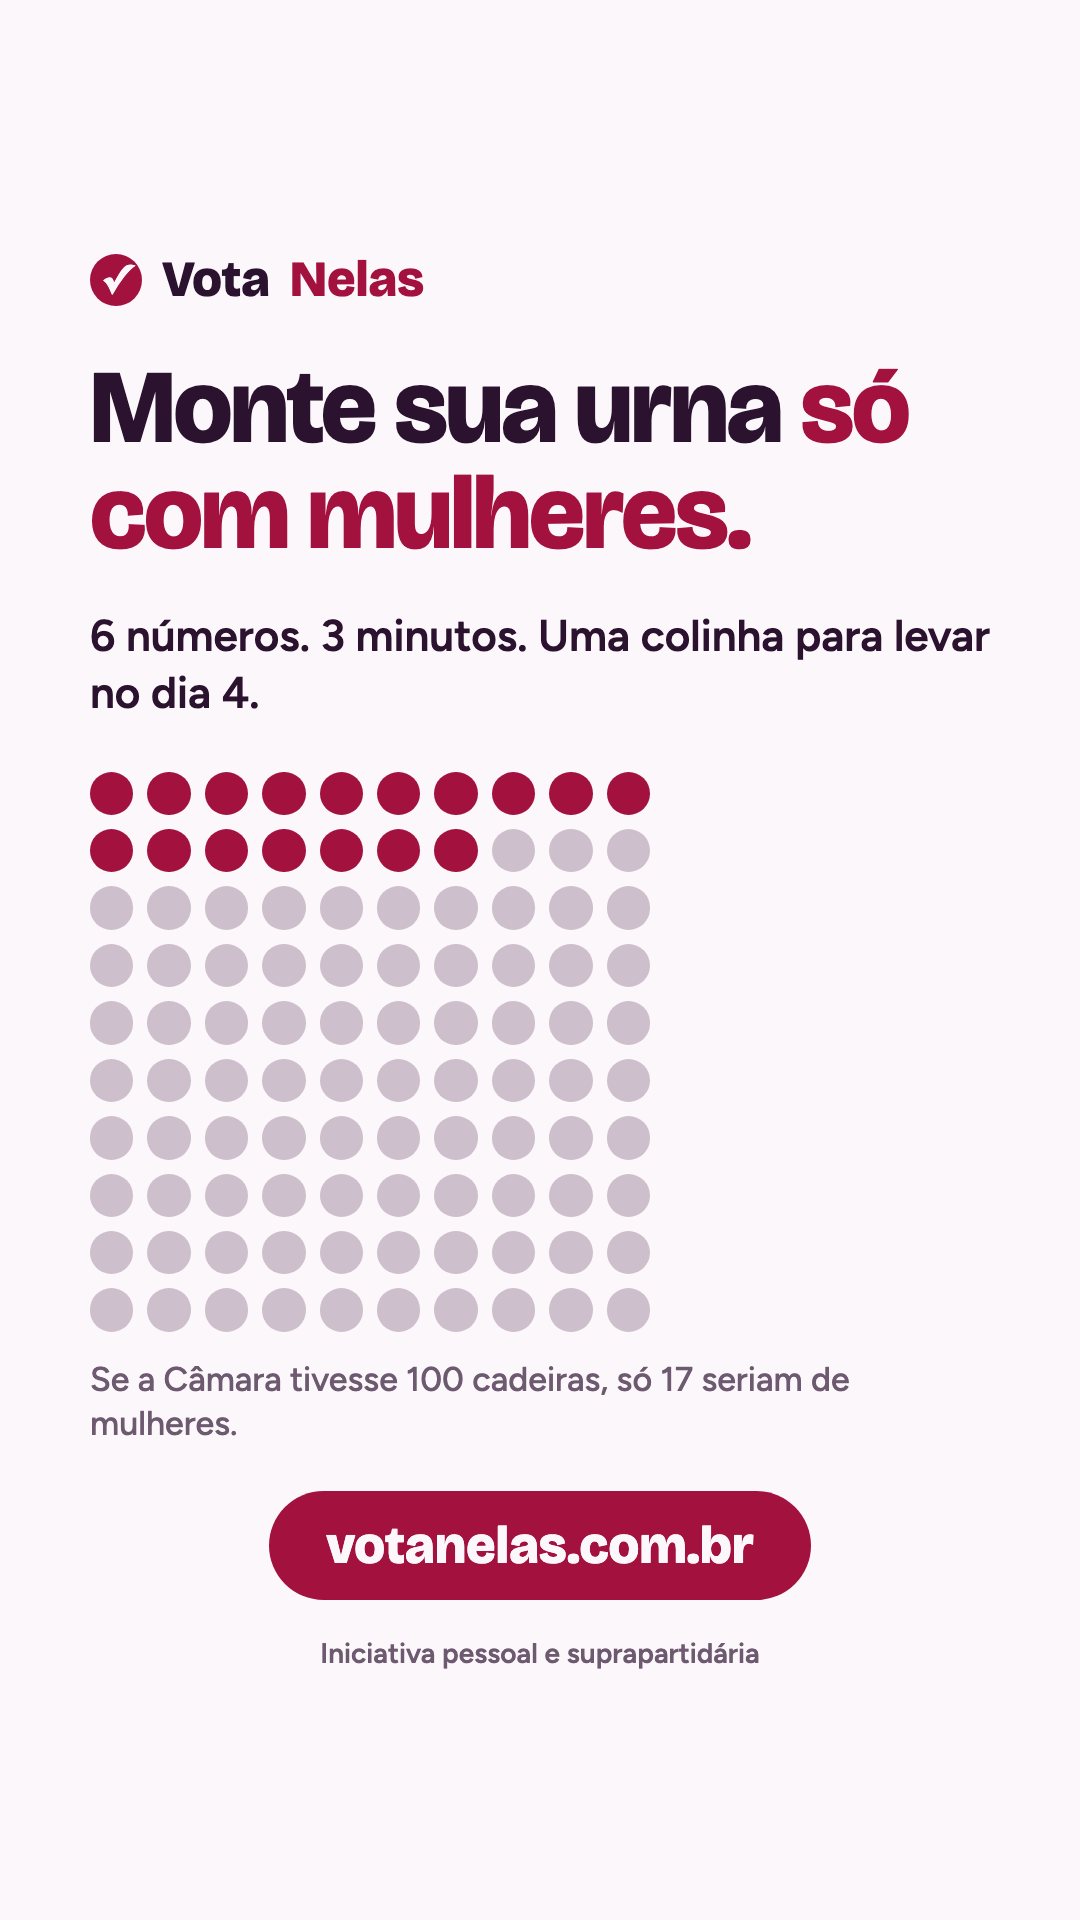
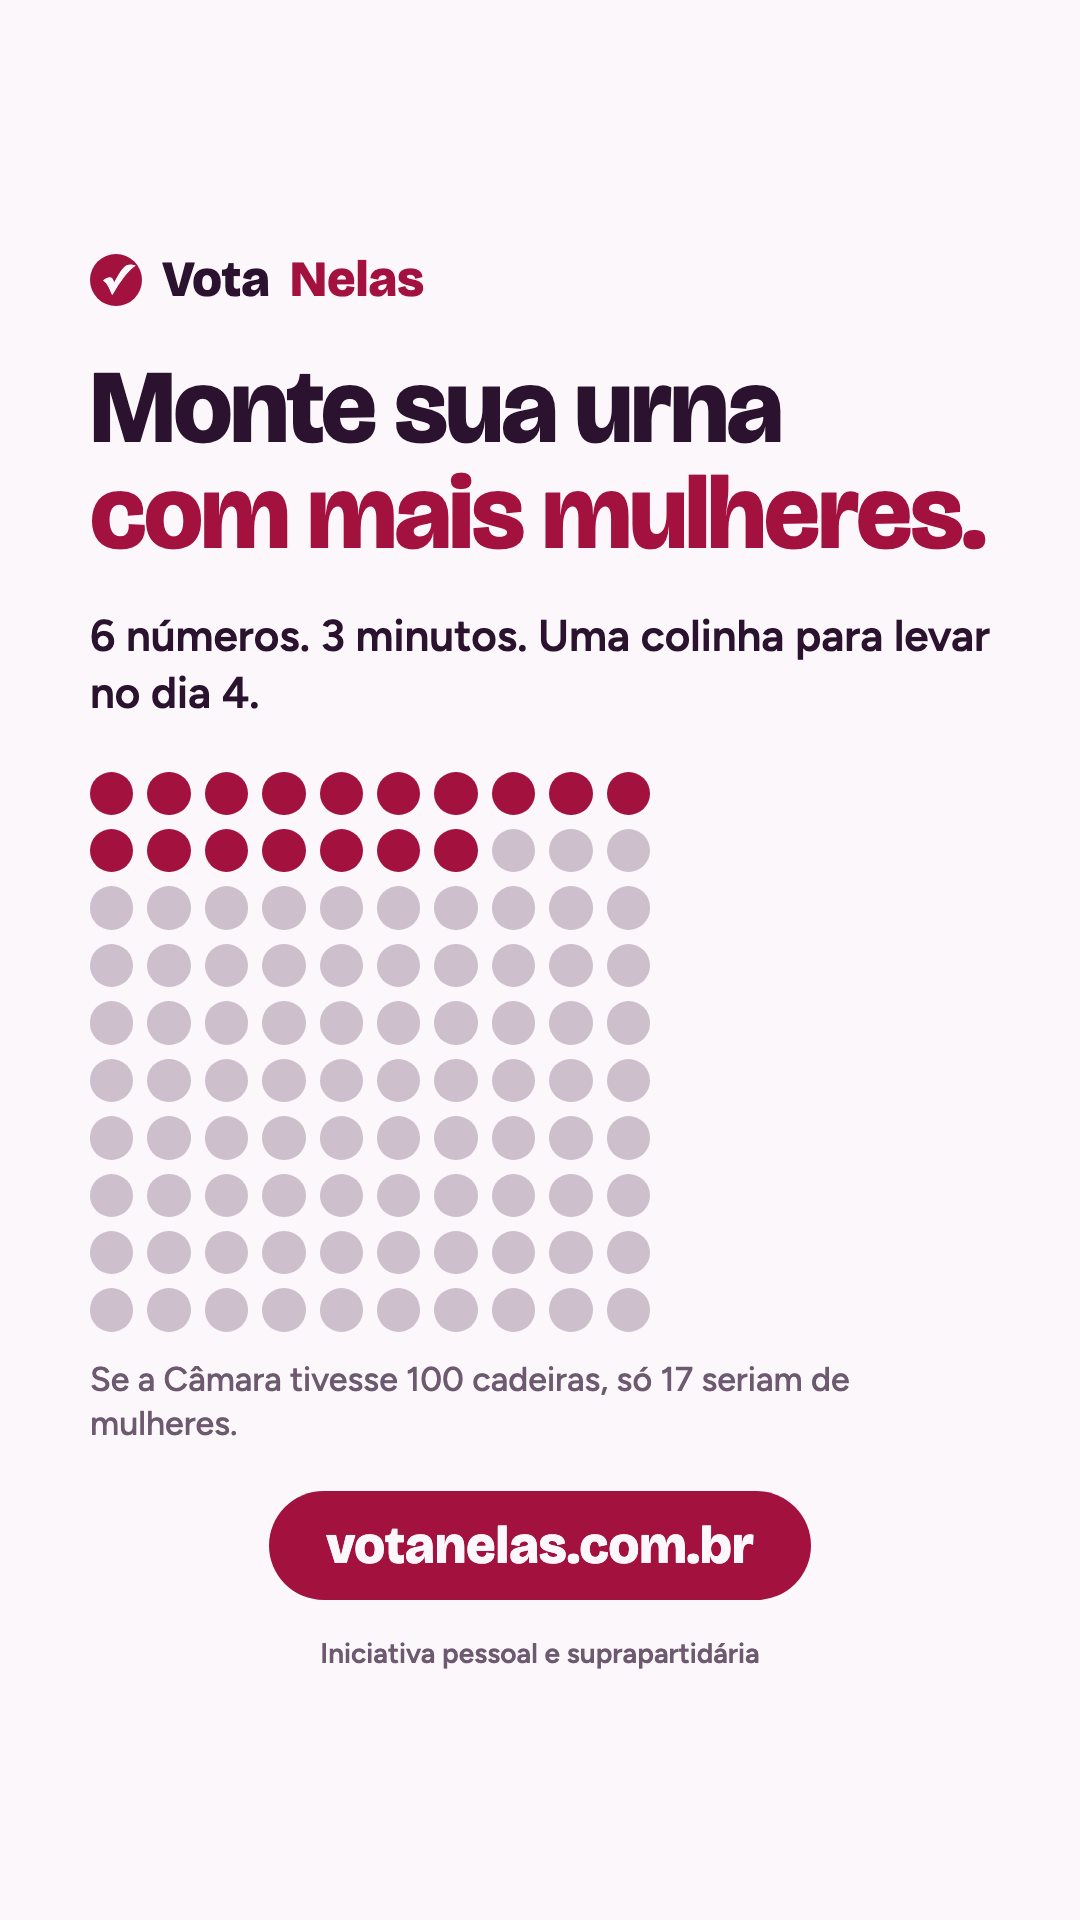
Ajusta as artes e os textos de divulgação para "com mais mulheres"
As artes e os textos prontos deixam de pedir a urna inteira de mulheres:
o carrossel pergunta "E se quase todos forem de mulheres?", o passo 2
explica que dá para pular o cargo sem uma candidata que te represente, e
stories, cards do X e mensagens falam em montar a urna com mais mulheres.

Changed region(s): [[0.3667, 0.1875, 0.9167, 0.3125]]

diff --git a/docs/marketing/artes/gerar.py b/docs/marketing/artes/gerar.py
@@ -94,14 +94,14 @@ ARTES = {
     "feed_02_carrossel-1": (FEED, "", f"""{LOGO}
       <div class="meio">
         <h1 style="font-size:104px">Na urna você digita <span class="v">6 números.</span></h1>
-        <h1 style="font-size:104px;margin-top:30px">E se todos forem de <span class="v">mulheres?</span></h1>
+        <h1 style="font-size:104px;margin-top:30px">E se quase todos forem de <span class="v">mulheres?</span></h1>
         <p class="m" style="font-size:36px;margin-top:50px">Arraste para ver como montar sua urna em 3 minutos →</p>
       </div>{RODAPE}"""),
 
     "feed_02_carrossel-2": (FEED, "", f"""{LOGO}
       <div class="meio" style="gap:58px">
         <div class="passo"><div class="n">1</div><div><h1 style="font-size:64px">Escolha seu estado</h1><p class="m" style="font-size:32px;margin-top:10px">No mapa ou na lista.</p></div></div>
-        <div class="passo"><div class="n">2</div><div><h1 style="font-size:64px">Uma mulher para cada cargo</h1><p class="m" style="font-size:32px;margin-top:10px">Na mesma ordem da urna. Pode pular os cargos que quiser.</p></div></div>
+        <div class="passo"><div class="n">2</div><div><h1 style="font-size:64px">Uma mulher em cada cargo que quiser</h1><p class="m" style="font-size:32px;margin-top:10px">Na ordem da urna. Onde não houver uma candidata que te represente, é só pular.</p></div></div>
         <div class="passo"><div class="n">3</div><div><h1 style="font-size:64px">Receba sua colinha</h1><p class="m" style="font-size:32px;margin-top:10px">Com os números, pronta para enviar a 3 amigas.</p></div></div>
       </div>{RODAPE}"""),
 
@@ -132,7 +132,7 @@ ARTES = {
     # ---------- stories do Instagram e status do WhatsApp (1080x1920) ----------
     "story_01_convite": (STORY, "", f"""{LOGO}
       <div class="meio">
-        <h1 style="font-size:104px">Monte sua urna <span class="v">só com mulheres.</span></h1>
+        <h1 style="font-size:104px">Monte sua urna <span class="v">com mais mulheres.</span></h1>
         <p style="font-size:44px;font-weight:600;margin:40px 0 50px">6 números. 3 minutos. Uma colinha para levar no dia 4.</p>
         <div style="width:560px">{dots()}</div>
         <p class="m" style="font-size:34px;margin-top:26px">Se a Câmara tivesse 100 cadeiras, só 17 seriam de mulheres.</p>
@@ -165,13 +165,13 @@ ARTES = {
       <div class="meio" style="flex-direction:row;align-items:center;gap:80px">
         <div><div class="num v" style="font-size:200px">52,8%</div><p style="font-size:40px;font-weight:700">do eleitorado</p></div>
         <div><div class="num r" style="font-size:200px">17,2%</div><p style="font-size:40px;font-weight:700">da Câmara</p></div>
-        <p class="m" style="font-size:38px;max-width:420px">Monte sua urna só com mulheres em 3 minutos.</p>
+        <p class="m" style="font-size:38px;max-width:420px">Monte sua urna com mais mulheres em 3 minutos.</p>
       </div>{RODAPE}"""),
 
     "x_02_como-funciona": (X, "escuro", f"""{LOGO}
       <div class="meio">
-        <h1 style="font-size:100px">Na urna, 6 números.<br><span class="v">Todos de mulheres.</span></h1>
-        <p style="font-size:40px;font-weight:600;margin-top:34px">Escolha seu estado, uma candidata por cargo e receba sua colinha.</p>
+        <h1 style="font-size:100px">Na urna, 6 números.<br><span class="v">A maioria de mulheres.</span></h1>
+        <p style="font-size:40px;font-weight:600;margin-top:34px">Escolha seu estado, uma mulher nos cargos que quiser e receba sua colinha.</p>
       </div>{RODAPE}"""),
 }
 
@@ -179,7 +179,7 @@ ARTES = {
 for faltam in range(8, 0, -1):
     titulo = "Amanhã é dia de votar." if faltam == 1 else f'Faltam <span class="v">{faltam} dias</span>.'
     apoio = ("Sua colinha está pronta? Anote os números ou tire um print hoje."
-             if faltam == 1 else "Já montou sua urna só com mulheres?")
+             if faltam == 1 else "Já montou sua urna com mais mulheres?")
     ARTES[f"story_contagem_{faltam:02d}"] = (STORY, "escuro" if faltam == 1 else "", f"""{LOGO}
       <div class="meio">
         <p class="m" style="font-size:44px;font-weight:700">Eleições · 4 de outubro</p>

diff --git a/docs/marketing/plano.md b/docs/marketing/plano.md
@@ -59,9 +59,9 @@ Hashtags: `#VotaNelas` `#EuVotoNelas` `#MaisMulheresNaPolítica` `#Eleições202
 ### Instagram
 
 **25/09, carrossel "Como funciona"**
-> Na urna você digita 6 números. E se todos forem de mulheres?
+> Na urna você digita 6 números. E se quase todos forem de mulheres?
 >
-> Criei o Vota Nelas: você escolhe seu estado, uma mulher para cada cargo, na ordem da urna, e recebe uma colinha pronta para levar no dia 4 e mandar para as amigas.
+> Criei o Vota Nelas: você escolhe seu estado e uma mulher em cada cargo que quiser, na ordem da urna (onde não houver uma candidata que te represente, é só pular), e recebe uma colinha pronta para levar no dia 4 e mandar para as amigas.
 >
 > Aparecem todas as candidatas aptas, de todos os partidos, com os dados oficiais do TSE e em ordem sorteada. Quem escolhe é você.
 >
@@ -72,7 +72,7 @@ Hashtags: `#VotaNelas` `#EuVotoNelas` `#MaisMulheresNaPolítica` `#Eleições202
 > Mulheres são 52,8% do eleitorado (TSE). Na Câmara dos Deputados, são 17,2% (88 de 513).
 >
 > A conta não fecha. Em 4 de outubro, dá para mudar isso.
-> Monte sua urna só com mulheres: votanelas.com.br (link na bio)
+> Monte sua urna com mais mulheres: votanelas.com.br (link na bio)
 
 **27/09, colinha**
 > O celular não entra na cabine. A colinha em papel pode.
@@ -90,9 +90,9 @@ Hashtags: `#VotaNelas` `#EuVotoNelas` `#MaisMulheresNaPolítica` `#Eleições202
 ### X (Twitter)
 
 **25/09, fio de lançamento**
-> 1/ Mulheres são 52,8% do eleitorado e 17,2% da Câmara. Criei um site para ajudar a mudar isso: você monta sua urna só com mulheres em 3 minutos. votanelas.com.br
+> 1/ Mulheres são 52,8% do eleitorado e 17,2% da Câmara. Criei um site para ajudar a mudar isso: você monta sua urna com mais mulheres em 3 minutos. votanelas.com.br
 >
-> 2/ Escolhe o estado, uma candidata por cargo, na ordem da urna, e recebe uma colinha para levar no dia 4.
+> 2/ Escolhe o estado e uma mulher nos cargos que quiser, na ordem da urna, e recebe uma colinha para levar no dia 4.
 >
 > 3/ É suprapartidário: aparecem todas as candidatas aptas, de todos os partidos, com dados oficiais do TSE e em ordem sorteada.
 >
@@ -110,7 +110,7 @@ Hashtags: `#VotaNelas` `#EuVotoNelas` `#MaisMulheresNaPolítica` `#Eleições202
 ### WhatsApp
 
 **Onda 1, 25/09, grupos de amigas e família**
-> Oi, gente! Criei um site para quem quer votar em mais mulheres nesse domingo, dia 4: você escolhe seu estado e monta sua urna só com mulheres, cargo por cargo, e recebe uma colinha com os números.
+> Oi, gente! Criei um site para quem quer votar em mais mulheres nesse domingo, dia 4: você escolhe seu estado e monta sua urna com mais mulheres, cargo por cargo, e recebe uma colinha com os números.
 > É suprapartidário, com todas as candidatas aptas e dados oficiais do TSE. Leva 3 minutos: votanelas.com.br
 > Se gostar, passa para 3 amigas 💜
 
@@ -134,12 +134,12 @@ Pedir para movimentos, coletivos e perfis de mulheres compartilharem. O argument
 **Atenção:** "Vote Nelas" aparece entre os apoiadores do ConfiaNelas, um nome quase igual ao nosso. Antes de procurar parceiras, vale ver se é outro projeto e, se for, citar o endereço `votanelas.com.br` sempre por extenso, para não confundir.
 
 **Mensagem para movimentos e coletivos (DM ou e-mail):**
-> Oi! Sou a Thais Freitas e criei o Vota Nelas (votanelas.com.br), um site suprapartidário em que a pessoa monta a urna só com mulheres, cargo por cargo, e recebe uma colinha para levar no dia 4.
+> Oi! Sou a Thais Freitas e criei o Vota Nelas (votanelas.com.br), um site suprapartidário em que a pessoa monta a urna com mais mulheres, cargo por cargo, e recebe uma colinha para levar no dia 4.
 > Aparecem todas as candidatas aptas, de todos os partidos, com dados oficiais do TSE e em ordem sorteada; o site não pede nenhum dado pessoal.
 > Vocês topariam compartilhar com a comunidade de vocês? Posso mandar artes prontas para feed e stories. Obrigada!
 
 **Mensagem para perfis de conteúdo:**
-> Oi! Acompanho seu conteúdo sobre representatividade e acho que o Vota Nelas pode interessar ao seu público: em 3 minutos a pessoa monta a urna só com mulheres e recebe uma colinha para o dia 4. É suprapartidário, com dados oficiais do TSE. Se quiser compartilhar, tenho artes prontas. votanelas.com.br
+> Oi! Acompanho seu conteúdo sobre representatividade e acho que o Vota Nelas pode interessar ao seu público: em 3 minutos a pessoa monta a urna com mais mulheres e recebe uma colinha para o dia 4. É suprapartidário, com dados oficiais do TSE. Se quiser compartilhar, tenho artes prontas. votanelas.com.br
 
 **Mensagem para o ConfiaNelas:**
 > Oi, equipe do ConfiaNelas! Sou a Thais Freitas, do Vota Nelas (votanelas.com.br). O site de vocês inspirou o nosso e está indicado no nosso rodapé. Nós fazemos a parte prática: a pessoa escolhe uma mulher por cargo e recebe a colinha para levar à urna. Toparia trocar indicações ou compartilhar? Seria lindo somar forças até o dia 4.
